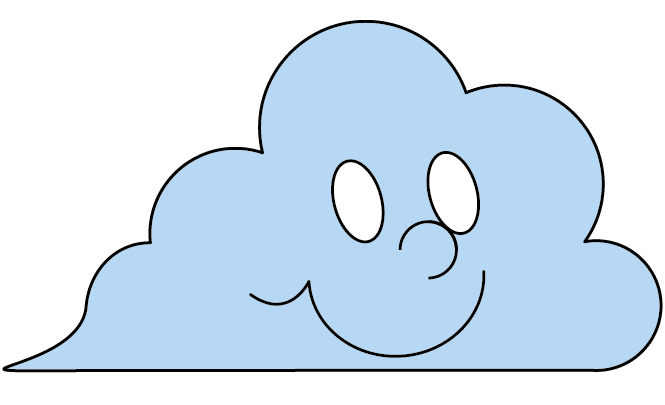
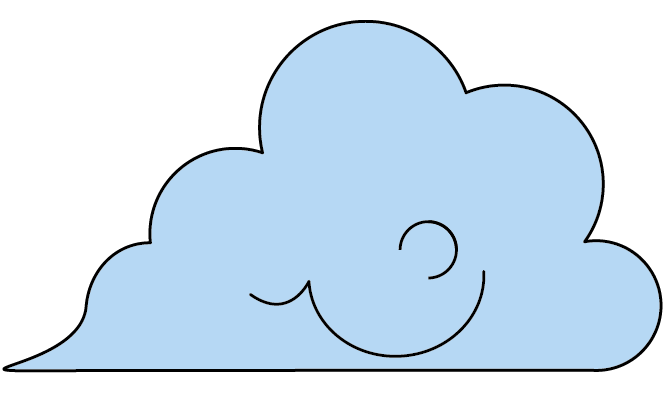
section2

Changed region(s): [[0.4812, 0.3852, 0.6015, 0.6222], [0.6316, 0.3556, 0.7218, 0.5926]]

diff --git a/css/main.css b/css/main.css
@@ -71,28 +71,39 @@
 .section01 {
   position: relative;
   width: 1250px;
-  height: 1100px;
-  margin: 90px auto;
+  height: 100vh;
+  margin: 100px auto;
   border-bottom: 2px solid #f4f4f4;
 }
 .title {
   position: absolute;
   width: 657px;
   height: 350px;
-  top: 18%;
+  top: 20%;
+  animation: slideY 0.3s linear;
+}
+@keyframes slideY {
+  0% {
+    transform: translateY(50px);
+    opacity: 0;
+  }
+  100% {
+    transform: translateY(0px);
+    opacity: 1;
+  }
 }
 .welcome {
   font-size: 35px;
   margin-bottom: 10px;
 }
 .portfolio {
-  font-size: 100px;
+  font-size: 110px;
   color: #000;
   width: 657px;
 }
 .puppy {
   position: absolute;
-  top: 0;
+  top: 3%;
   left: 0;
   width: 160px;
   height: 160px;
@@ -100,8 +111,8 @@
 }
 .nandp {
   position: absolute;
-  top: 90px;
-  right: -24%;
+  top: 15%;
+  right: -25%;
   z-index: -1;
   width: 1100px;
   height: 683px;
@@ -109,7 +120,7 @@
 .section02 {
   position: relative;
   width: 1250px;
-  height: 1000px;
+  height: 100vh;
   margin: 0 auto;
   border-bottom: 2px solid #f4f4f4;
 }
@@ -117,11 +128,61 @@
   position: absolute;
   top: 200px;
   left: -200px;
+  width: 665px;
+  height: 405px;
+  background:url(../img/cloud1.png) no-repeat 0 0;
+}
+.eyes {
+  display:flex;
+  position:absolute;
+  top:140px;
+  left:320px
+}
+.eye {
+  position:relative;
+  width:80px;
+  height:100px;
+  border:4px solid #000;
+  border-radius:50%;
+  background-color:#fff;
+  /* transform:scaleX(.9); */
+}
+.eye2 {left: 30px;}
+.pupil {
+  position:absolute;
+  left:25px;
+  bottom:0;
+  width:30px;
+  height:80px;
+}
+.pupil:before {
+  content:'';
+  display:block;
+  position:absolute;
+  left:0;
+  bottom:0;
+  width:inherit;
+  height:30px;
+  border-radius:50%;
+  background-color:#000;
+}
+.pupil:after {
+  content:'';
+  display:block;
+  position:absolute;
+  left:12px;
+  bottom:12px;
+  width:6px;
+  height:6px;
+  border-radius:50%;
+  background-color:#fff;
 }
 .cloud2 {
   position: absolute;
-  right: 0;
   top: 600px;
+  right: -300px;
+  transition: all 3s ease;
+  opacity: 0;
 }
 .section03 {
   width: 1250px;

diff --git a/index.html b/index.html
@@ -46,17 +46,24 @@
       </nav>
     </header> 
     <section id="container" class="section01">
-      <div class="inner">
-        <div class="title">
-          <h3 class="welcome">Welcome to the </h3>
-          <h2 class="portfolio">LeeJuHee<span class="red" style="color: rgb(255, 82, 82);">’s</span> Portfolio</h2>
-        </div>
-        <img src="./img/puppy.png" alt="" class="puppy">
-        <img src="./img/notebook and puppys .png" alt="" class="nandp">
+      <div class="title">
+        <h3 class="welcome">Welcome to the </h3>
+        <h2 class="portfolio">LeeJuHee<span class="red" style="color: rgb(255, 82, 82);">’s</span> Portfolio</h2>
       </div>
+      <img src="./img/puppy.png" alt="" class="puppy">
+      <img src="./img/notebook and puppys .png" alt="" class="nandp">
     </section>
     <section class="section02">
-      <img src="./img/cloud1.png" alt="" class="cloud1"> 
+      <div class="cloud1">
+        <div class="eyes">
+          <div class="eye eye1">
+            <div class="pupil"></div>
+          </div>
+          <div class="eye eye2">
+            <div class="pupil"></div>
+          </div>
+        </div>
+      </div>
       <img src="./img/cloud2.png" alt="" class="cloud2">
     </section>
     <section class="scroll section03">
@@ -155,4 +162,5 @@
 </body>
 <script src="https://code.jquery.com/jquery-1.12.4.min.js"></script>
 <script src="./js/header.js"></script>
+<script src="./js/main.js"></script>
 </html>

diff --git a/js/main.js b/js/main.js
@@ -1,0 +1,38 @@
+// section02 eyes start
+var eyes = function(selector){
+  var eye  = document.querySelector(selector);
+  var pupil = eye.querySelector('.pupil');
+  var area = eye.getBoundingClientRect();
+  var roll = function (mouseX, mouseY) {
+    var radian = Math.atan2(mouseY -(area.y + area.height * 0.5), mouseX - (area.x + area.width * 0.5));
+    pupil.style.transform = 'rotate('+(180*radian / Math.PI - 90)+'deg)';
+  };
+  return {
+    roll:roll
+  };
+};
+
+var eye1 = eyes('.eye1');
+var eye2 = eyes('.eye2');
+window.addEventListener('mousemove', function(e){
+  eye1.roll(e.pageX, e.pageY)
+  eye2.roll(e.pageX, e.pageY)
+})
+// section02 eyes end
+// section02 cloud2 start
+ $(document).ready(function(){
+   var movecloud2 = $('.section02').offset().top;
+
+   $(window).scroll(function(){
+     var scrollTop = $(window).scrollTop();
+     console.log(scrollTop)
+     if(scrollTop >= movecloud2) {
+       $('.cloud2').css({
+         'position':'absolute',
+         'transform':'translateX(-300px)',
+         'opacity':'1'
+        })
+     }
+   })
+ })
+// section02 cloud2 end

diff --git a/js/header.js b/js/header.js
@@ -16,8 +16,8 @@ $(document).ready(function(){
   var cont = $('.scroll');
   $(window).scroll(function(){
     var wScroll=$(this).scrollTop();
-    for(var i=0; i < cont.length; i++){
-      if(wScroll>=cont.eq(i).eq(i).offset().top){
+    for(var i=0; i<cont.length; i++){
+      if(wScroll>=cont.eq(i).offset().top){
         nav.removeClass('active');
         nav.eq(i).addClass('active');
       }
@@ -45,7 +45,7 @@ $(document).ready(function(){
   $(window).scroll(function(){
     var listwScroll=$(this).scrollTop();
     for(var i=0; i < listcont.length; i++){
-      if(listwScroll>=listcont.eq(i).eq(i).offset().top){
+      if(listwScroll>=listcont.eq(i).offset().top){
         listnav.removeClass('listactive');
         listnav.eq(i).addClass('listactive');
       }
